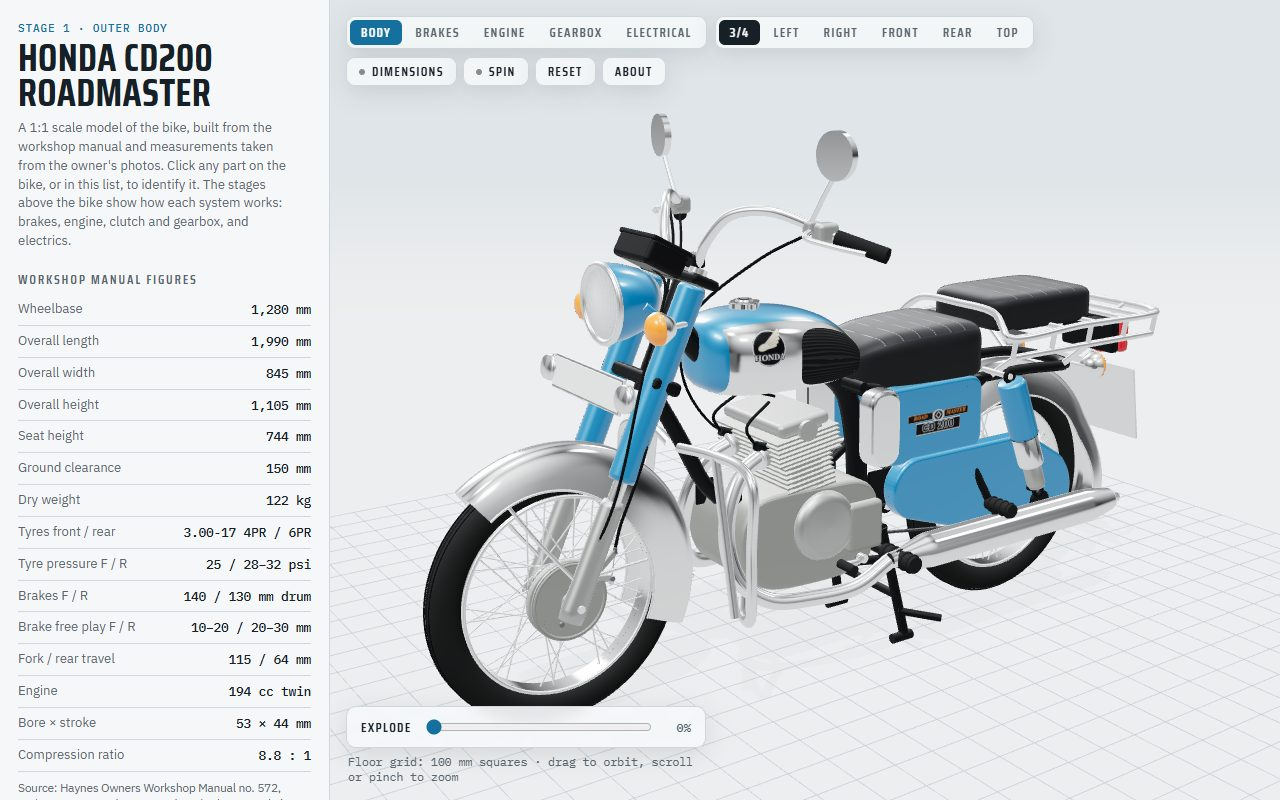
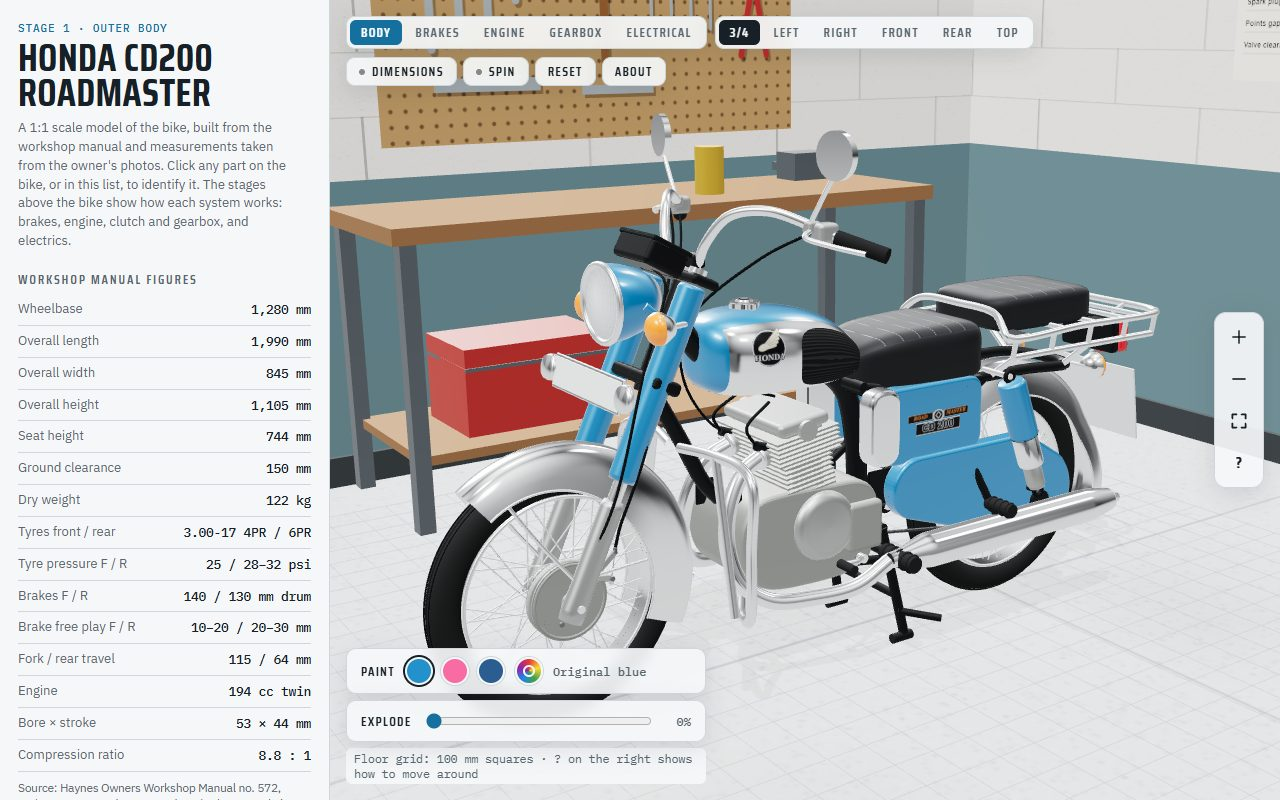
README and images: paint colours, garage, phones
Screenshots and the turning GIF regenerated with the garage; README and
CLAUDE.md describe paint, the garage and the phone layout.

diff --git a/CLAUDE.md b/CLAUDE.md
@@ -37,6 +37,24 @@ cannot lose it. The navigation pad on the right (`zoomBy`, `homeView`), double-c
 part (`focusPart`) and the keys (arrows turn, Shift + arrows move, + / − zoom, 0 whole view, F focus
 the selected part) all go through `flyTo`. `homeView` returns to the current stage's starting view.
 
+**Paint.** `MAT.paint()` tags its material `userData.paint`; `setPaint(hex)` in app.js recolours every
+tagged material (tank, side covers, chain case, fork and shock covers, headlamp shell) and stores the
+choice in localStorage (`cd200.paint`). Presets are `PAINTS` in core.js: the original blue (used as is)
+and the owner's pink and dark blue. Other colours go through `paintBase`, which darkens them slightly
+so the clear-coated metallic paint renders like the swatch. New painted parts must use `MAT.paint()`.
+
+**Garage.** `js/scene/garage.js` builds a 4.6 × 3.8 m room (walls at z = ±1.9, x = −1.6 and 3.0) in the
+scene, not in `bike`, with picking disabled on every mesh. `updateGarage(camera)` hides any wall the
+camera is outside, so the room never blocks a view; `setGarageMode(stage)` hides the props and fades
+the walls in tool stages. Keep it light: no extra lights, no shadow casting, small canvas textures.
+
+**Phones.** One breakpoint set, `PHONE_MQ` in app.js and the matching CSS media query:
+`(max-width: 760px), (max-height: 520px) and (orientation: landscape)`. Portrait: two-row top bar
+(stages; View `<select>` + icon tools), stage panels at the bottom (max 46%) with `viewShift.y` moving
+the subject into the clear area. Landscape phones (`LANDSCAPE_PHONE_MQ`): panel on the left as on
+desktop. `pointer: coarse` enlarges touch targets. Phones render at pixel ratio ≤ 1.5 with a 1024
+shadow map. Check new UI at 390×844 and 844×390.
+
 There is no build step. `index.html` loads `js/app.js` as an ES module; three.js 0.160.0 comes from
 the jsDelivr CDN through the import map in `index.html`. Keep the version in the import map and
 `package.json` in step.
@@ -61,7 +79,8 @@ js/parts/exhaust.js     headers and silencers
 js/parts/lights.js      headlamp, speedometer, indicators, tail light, horns; lamp glows (poseLamps) and dial lamps (setDialLamps)
 js/parts/controls.js    handlebar, clutch lever and cable, mirrors, gear/kick pedals, cables (CONTROLS for posing)
 js/parts/brakes.js      stage 2: drums, back plates, shoes, springs, cams, lever, cable, pedal, rod, stop switch
-js/app.js               renderer, camera views, dimensions, explode, parts list, picking, brake and engine modes, loop
+js/scene/garage.js      workshop garage round the bike (scenery, outside `bike`); buildGarage, updateGarage, setGarageMode, setGarageTheme
+js/app.js               renderer, camera views, dimensions, explode, paint, parts list, picking, stage modes, intro, loop
 tools/check.mjs         smoke test + screenshots
 tools/serve.mjs         local server
 tools/photo-measure/    measure part positions from side photos (see its README)
@@ -128,7 +147,7 @@ stage's part module.
 `stage`, `brake`, `brakeView`, `engine(deg, play, follow)`, `engineView`, `cycle`,
 `gearbox({ gear, rpm, lever, slack, plate, settle })`, `gearView`, `shift`,
 `electrical({ key, lights, beam, turn, horn, fbrake, rbrake, start, fuse, flat, engine, run })`,
-`elecView`, `intro(on)` and `photoCam`. `tools/check.mjs` and `tools/photo-measure/overlay.mjs`
+`elecView`, `intro(on)`, `paint(hex)` and `photoCam`. `tools/check.mjs` and `tools/photo-measure/overlay.mjs`
 depend on them; extend them for new stages rather than reaching into internals from tests.
 
 **Design.** Colours are CSS custom properties defined for light and dark at the top of

diff --git a/README.md b/README.md
@@ -26,6 +26,13 @@ Every stage has a fault finder with the workshop manual's causes and remedies.
 to zoom towards the pointer. Double-click a part to fly to it. The buttons on the right zoom in and
 out and go back to the whole view, and the arrow keys, + / − and 0 do the same from the keyboard.
 
+**Make it yours:** repaint the tank, side covers, chain case, fork and shock covers in the bike's
+original blue, pink, dark blue or any colour from the picker; the choice is remembered. The bike
+stands in a small workshop garage, which steps back while you work in the other stages.
+
+**On a phone:** the page fits portrait and landscape, with a compact top bar, a view picker, larger
+buttons and the controls kept clear of the bike.
+
 <table>
 <tr>
 <td><img src="docs/screenshots/brakes.jpg" alt="Rear drum brake applied, seen through the back plate"></td>
